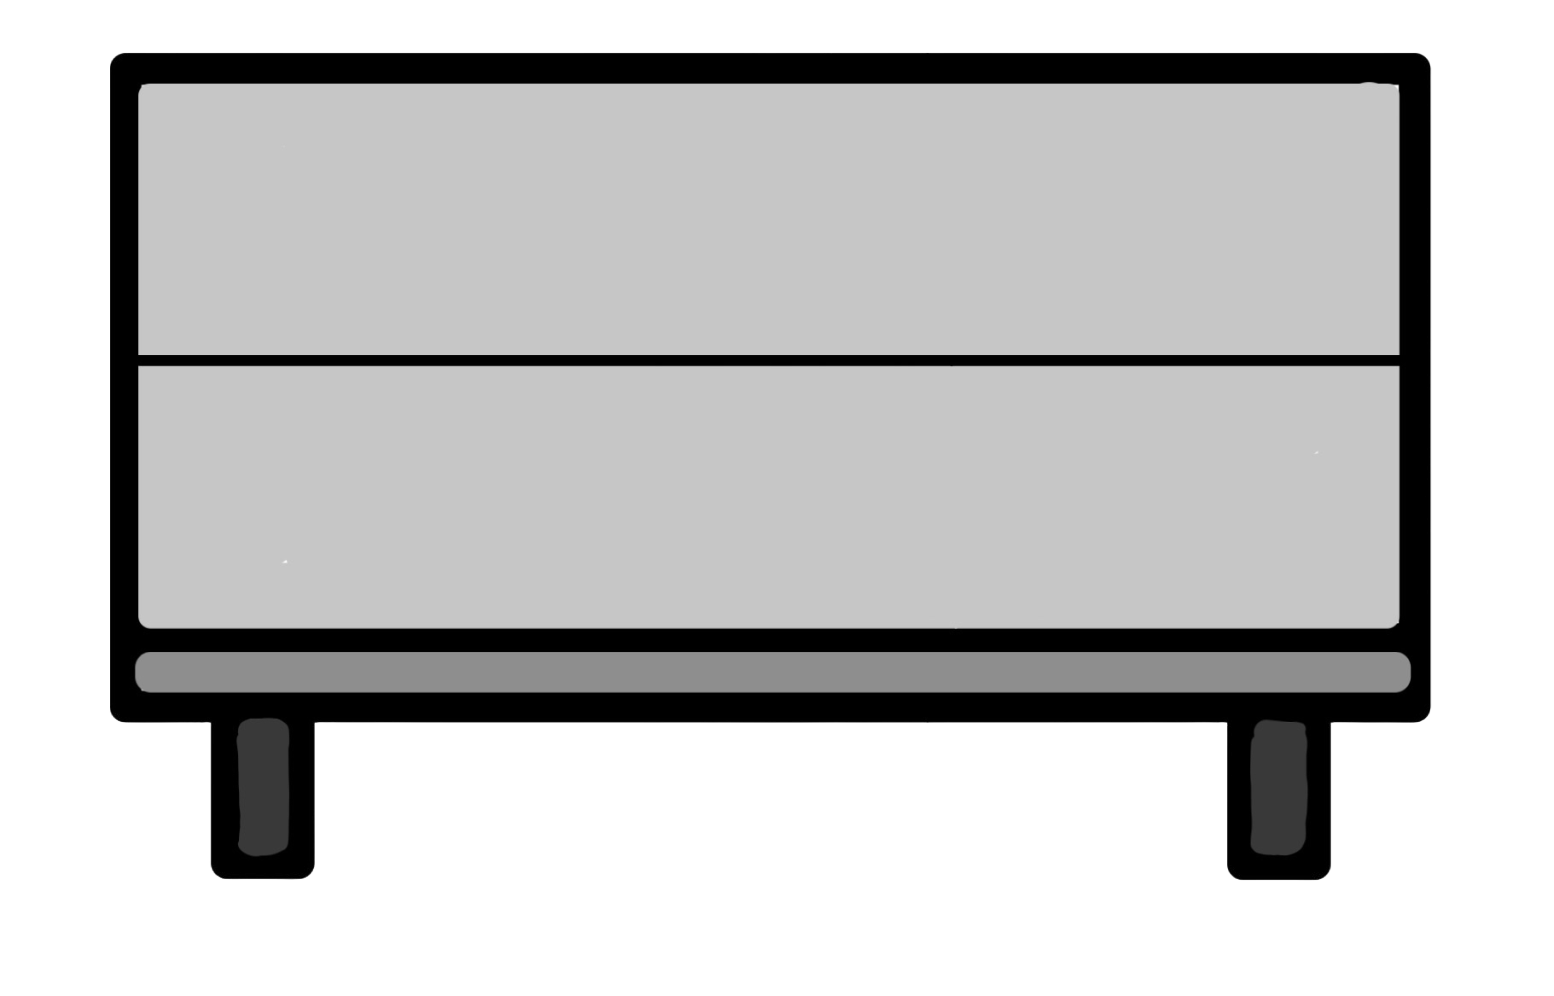
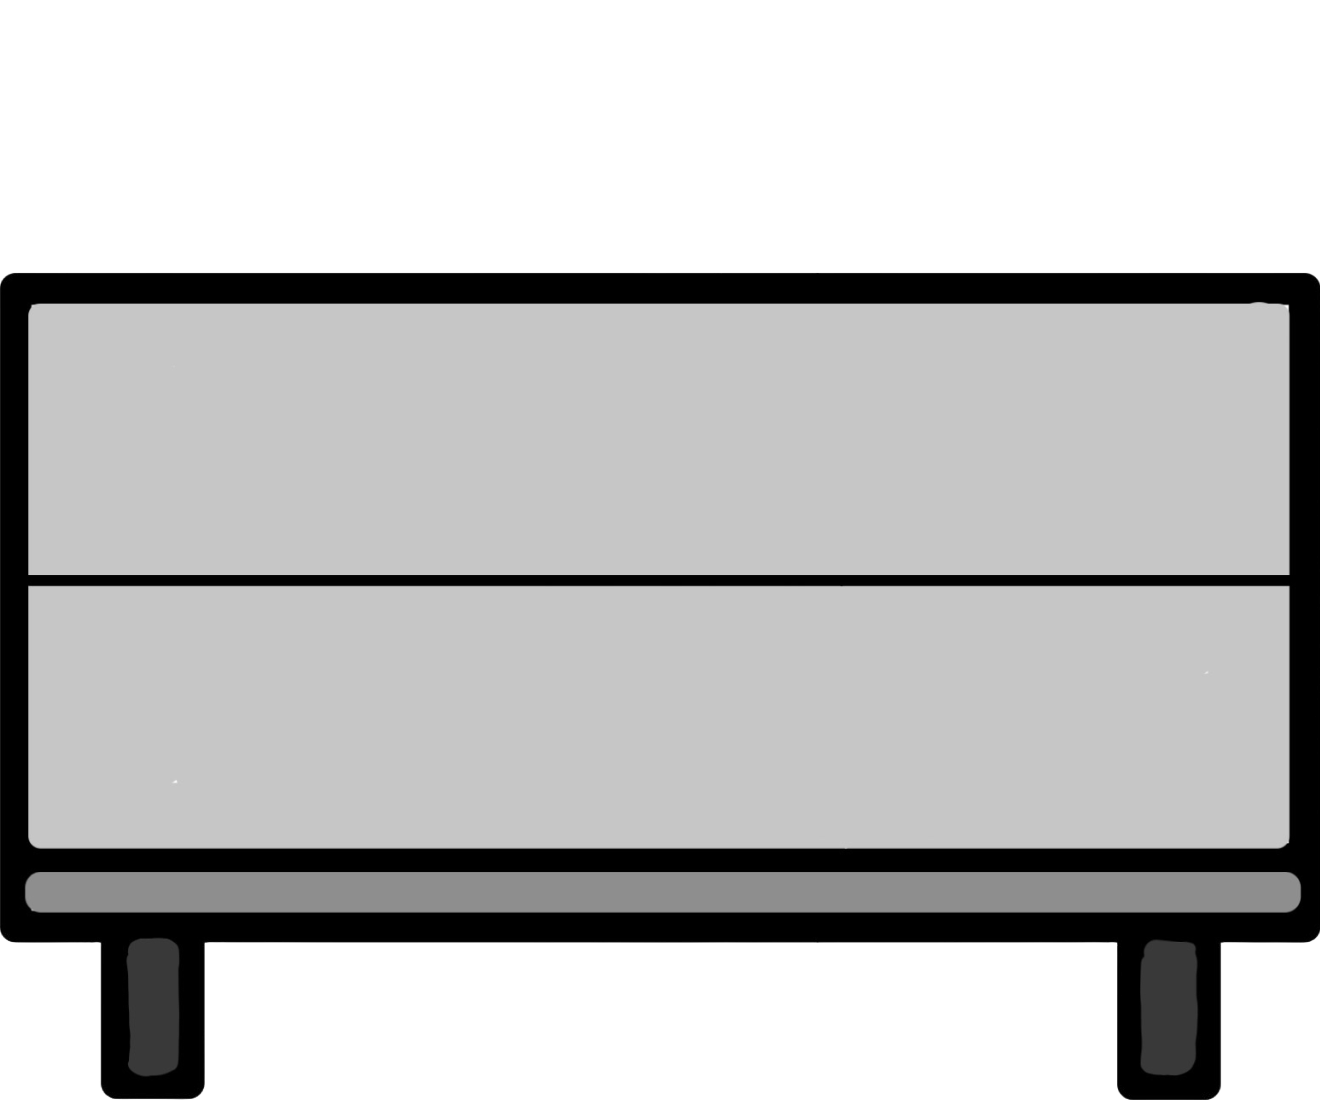
Made table tile with other tables
Sprite fixes so now legs go behind other tabletops

diff --git a/src/map.rs b/src/map.rs
@@ -174,7 +174,7 @@ pub fn setup_tilemap(
                         sprite,
                         Transform {
                             translation: Vec3::new(x, y, Z_FLOOR + 2.0),
-                            scale: Vec3::new(0.6, 0.6, 1.0),
+                            scale: Vec3::new(0.5, 1.0, 1.0),
                             ..Default::default()
                         },
                         Collidable,
